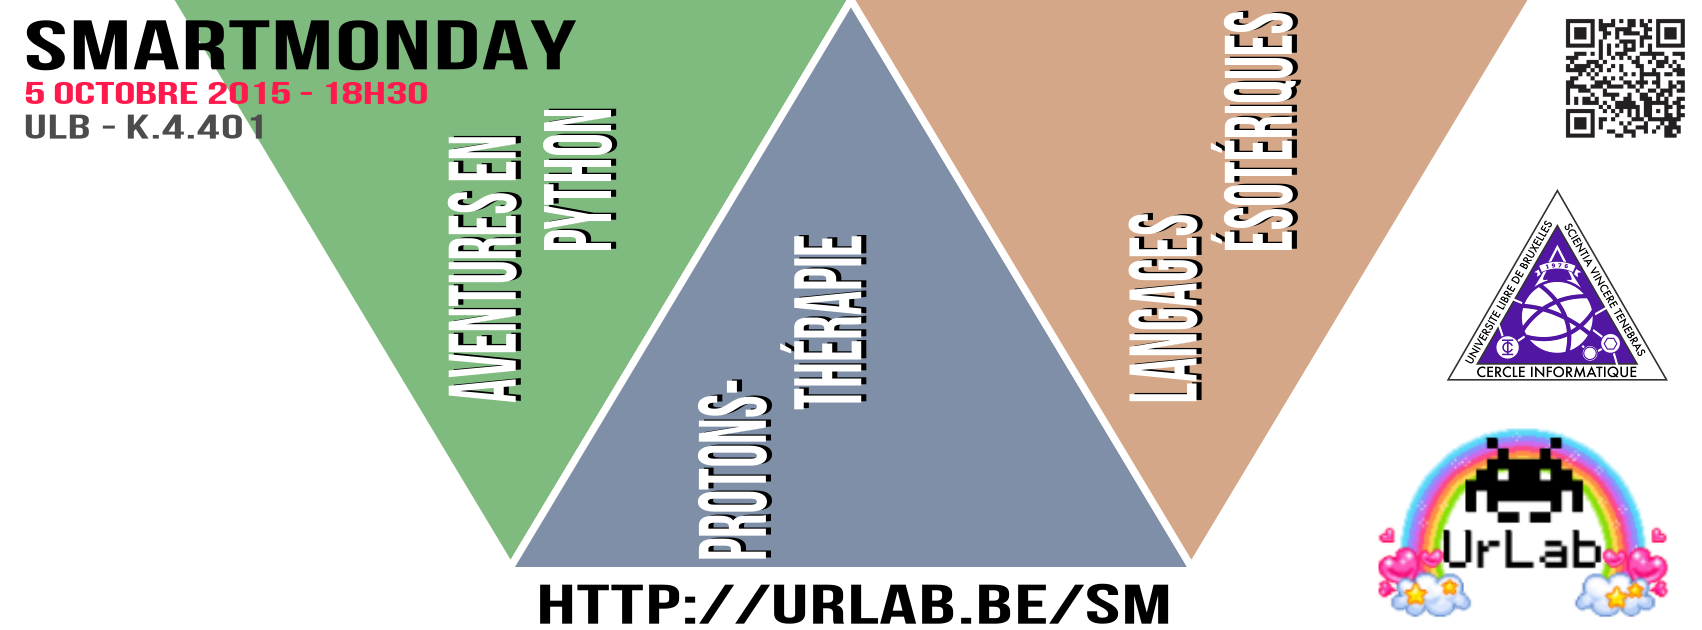
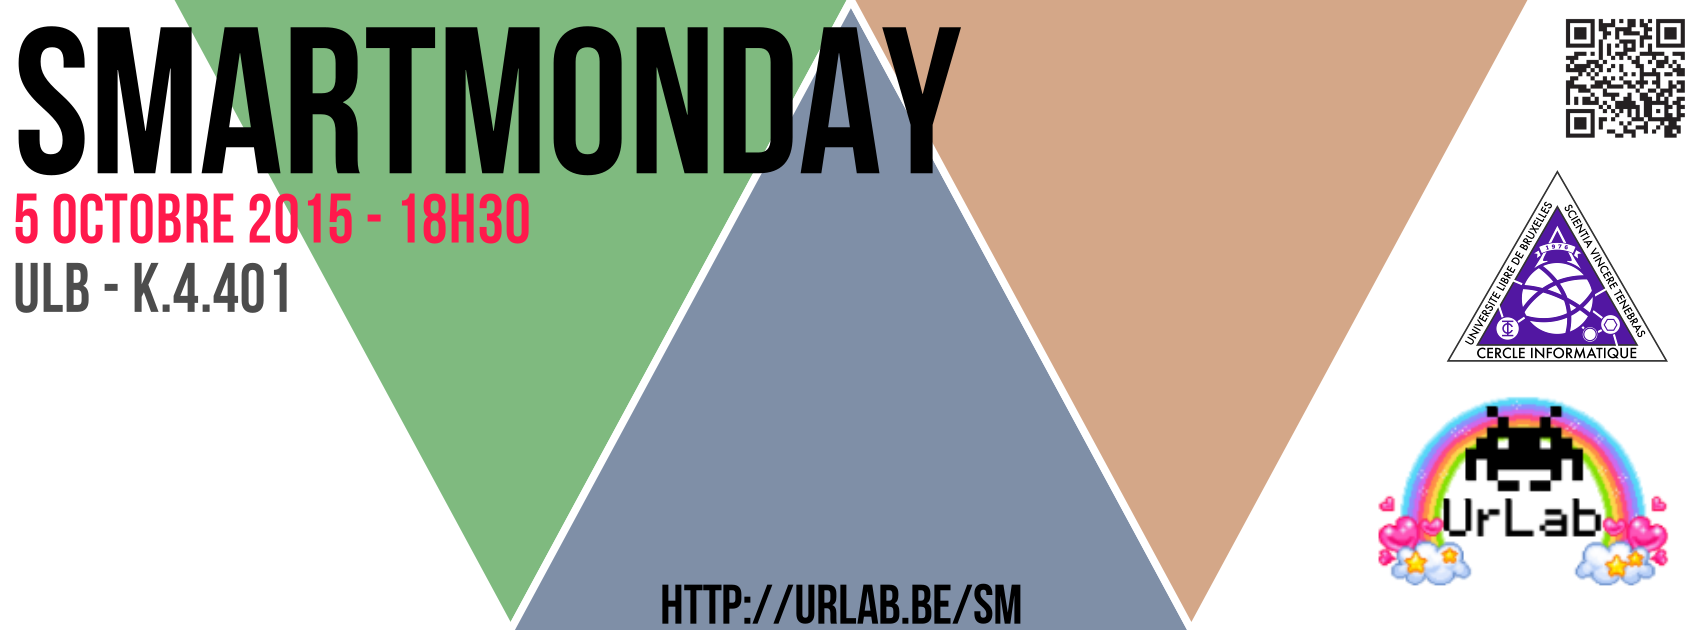
[fix] Hideous style

diff --git a/affiche.py b/affiche.py
@@ -232,16 +232,24 @@ class Affiche(object):
 class FacebookBanner(Affiche):
     SHOW_CONF_IMG = False
 
-    URL_POS = (0.45, 0.9)
+    TITLE_FONTSIZE = 0.3
+    TITLE_POS = (0.02, 0.25)
+
+    PLACE_POS = (0.02, 0.45)
+    PLACE_FONTSIZE = 0.1
+    DATE_POS = (0.02, 0.35)
+    DATE_FONTSIZE = 0.1
+
+    URL_POS = (0.97, 0.9)
     URL_FONTSIZE = 0.08
     DESCRIPTION_FONTSIZE = 0
     DISCLAIMER_FONTSIZE = 0
 
     LOGO_URLAB_SIZE = 0.17
-    LOGO_URLAB_POS = (0.81, 0.6)
+    LOGO_URLAB_POS = (0.81, 0.55)
 
     LOGO_CI_SIZE = 0.13
-    LOGO_CI_POS = (0.85, 0.3)
+    LOGO_CI_POS = (0.85, 0.27)
 
     QRCODE_SIZE = 0.07
     QRCODE_POS = (0.92, 0.03)
@@ -250,18 +258,16 @@ class FacebookBanner(Affiche):
     height = 630
 
     def conf_container_path(self, x, y1, y2):
-        self.ctx.move_to(y1, 0.9*(1-x))
-        self.ctx.line_to((y1+y2)/2, 0.9*x)
-        self.ctx.line_to(y2, 0.9*(1-x))
+        self.ctx.move_to(y1, 1-x)
+        self.ctx.line_to((y1+y2)/2, x)
+        self.ctx.line_to(y2, 1-x)
 
     def conf_text_path(self, text, x, y, x_incr, y_incr):
-        self.ctx.rotate(-pi/2)
-        self.ctx.translate(-0.94+x, y)
-        self.ctx.scale(1.2, 0.7)
-        super(FacebookBanner, self).conf_text_path(text, 0, 0, x_incr, y_incr)
+        # No conf text
+        return
 
     def const_text_path(self, *args, **kwargs):
-        self.ctx.scale(0.7, 1.1)
+        self.ctx.scale(0.4, 1.1)
         super(FacebookBanner, self).const_text_path(*args, **kwargs)
 
 if __name__ == "__main__":
